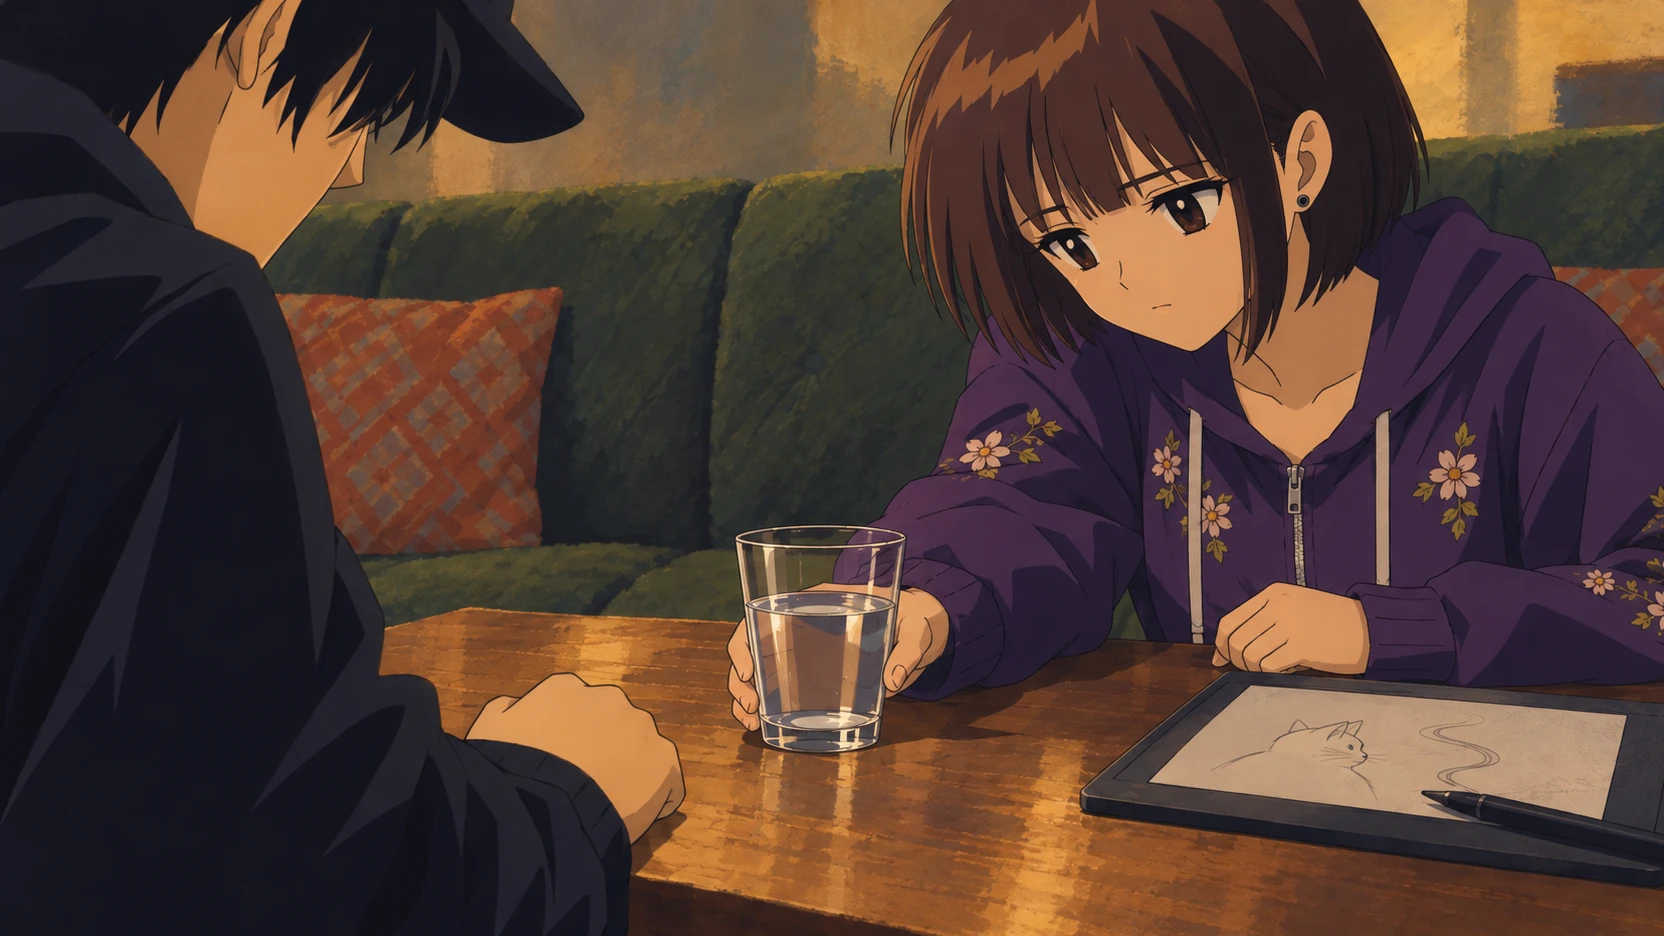
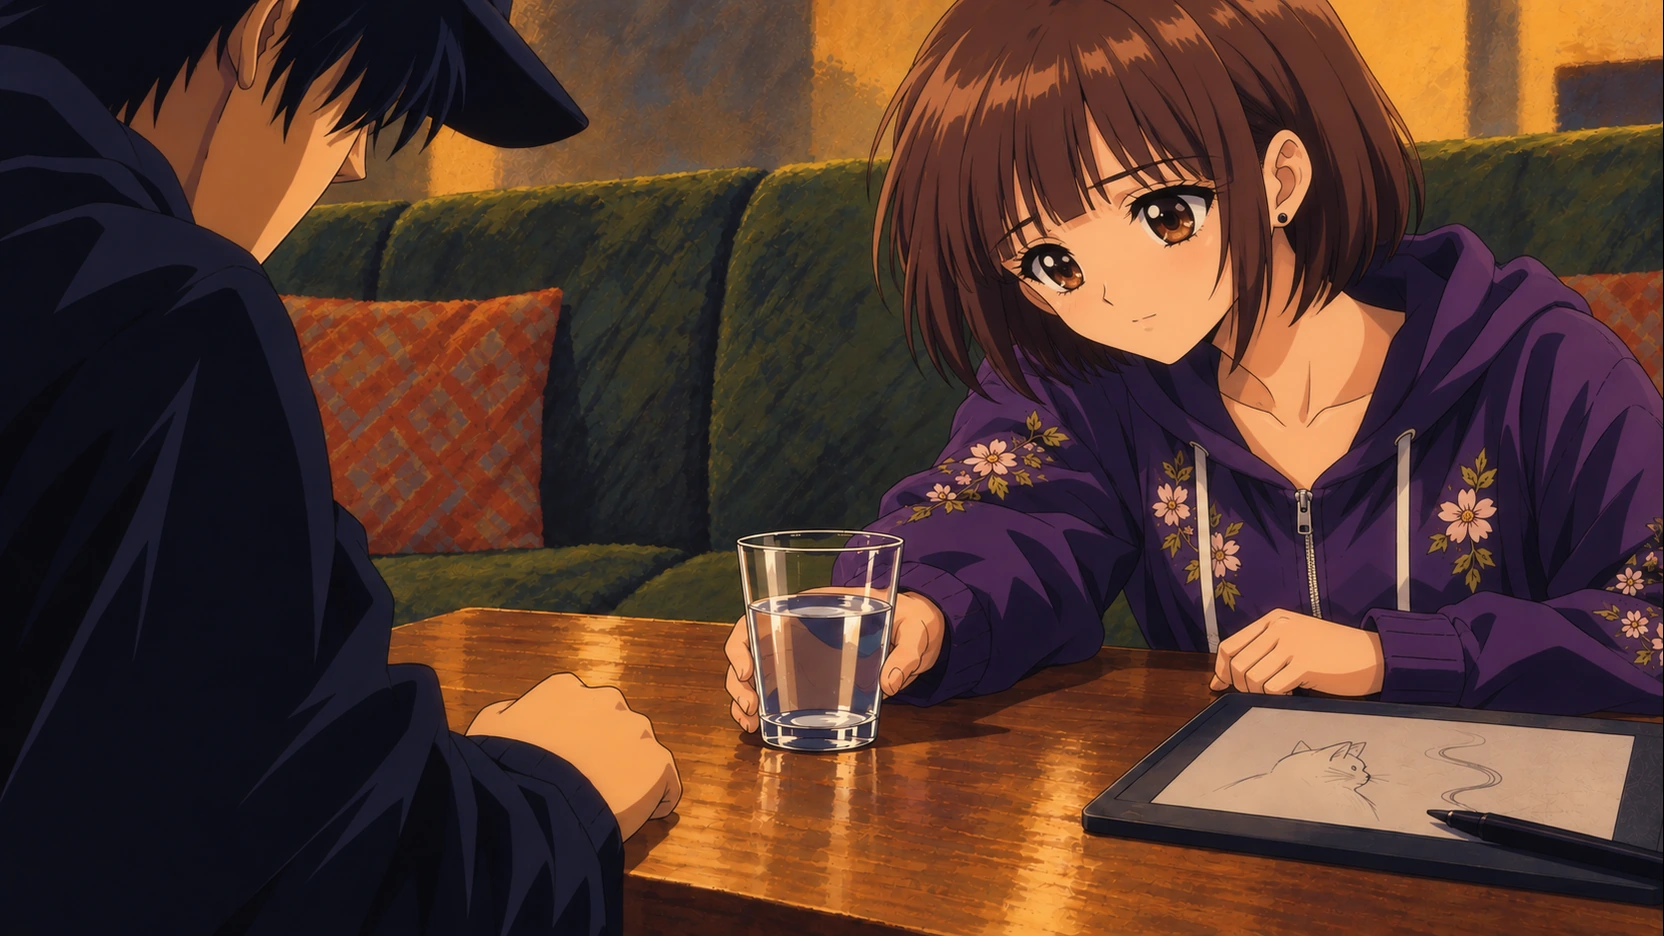
feat: adopt OVA art and anonymous silhouette in chapter preview (#519)

diff --git a/docs/chapter_previews.md b/docs/chapter_previews.md
@@ -1,6 +1,6 @@
 # 第1章の章末と次回予告
 
-Issue #384。第1章で勝利とライバルの「もう一口」を受け取ったあと、はじめが採点表を気にし始める短い余韻から、第二章「才能の壁（ジェラシー・ヘイズ）」の断片へつなぐ。
+Issue #384・#519。第1章で勝利とライバルの「もう一口」を受け取ったあと、はじめが採点表を気にし始める短い余韻から、第二章「才能の壁（ジェラシー・ヘイズ）」の断片へつなぐ。
 
 ## 演出と正本
 
@@ -8,7 +8,9 @@ Issue #384。第1章で勝利とライバルの「もう一口」を受け取っ
 
 採用Cは16:9の横長画面に元絵全体を収め、絵の下へ細い字幕を置く。章タイトルは既存サンプルと同じDotGothic16を使い、静かな倍音とベル、控えめなフェードで余韻を残す。章タイトルのあとにみんとの「何があっても、わたしはここにいるから。」をもう一度置き、最後の問いへつなぐ。音声ナレーションは付けず、サンプルの読みの間を確保する。既存6場面の断片までを扱い、大会の順位・採点の説明、未知の送信者の正体、アゲハが去る理由は追加しない。
 
-実装素材は `assets/cgs/ch2_preview/` に6枚、1664×936のWebPで合計約0.84MiB。`asset_sources/trailer-90s-anime-concept/images/` のPNGを形式変換したもので、元絵の再描画・リサイズ・クロップはしない。採用元と実装素材のハッシュ・変換条件は `asset_sources/ch2-preview/adoption.json`。生成指示と目視QAは既存サンプル側にある。DotGothic16は約2MiBで、サンプルと同じSIL OFLフォント。素材と書体は章末/再視聴時に読み、タイトル起動時には追加通信しない。
+Issue #519で、つむぎの水の場面をヨーコ／初期OVAのような可愛さを意識した一枚へ、アゲハの場面を夜の入口の後ろ姿と長い影へ更新した。入口の場面は元のタイトル絵と異なる低い斜めの構図で、顔を隠し、話者名も表示しない。髪飾りの小さな色を、2章の人物登場時に「あ、この子か」と気付く手がかりにする。章頭の巨大な人物画は予告に使わず、台詞とCの間を保つ。
+
+実装素材は `assets/cgs/ch2_preview/` に6枚、1664×936のWebPで合計1,018,040バイト（約0.97MiB）。既存4枚は `asset_sources/trailer-90s-anime-concept/images/` のPNGを原寸で形式変換。#519の2枚は `asset_sources/retro-ova-study-519/images/` のPNGから構図全体を縮小して1664×936へ収め、右に1pxの黒余白を置いた。クロップ・色補正は行わず、PNG原画も保持する。採用元と実装素材のハッシュ・変換条件は `asset_sources/ch2-preview/adoption.json`。生成指示と目視QAは各素材元にある。DotGothic16は約2MiBで、サンプルと同じSIL OFLフォント。素材と書体は章末/再視聴時に読み、タイトル起動時には追加通信しない。
 
 曲は `remake/js/chapters/preview-score.js` のオリジナルWebAudioスコア。既存のBGM音量/消音を尊重し、予告内の音ボタンは一時的な消音のみ。SEの音量を0にしても曲中の打楽器は音楽として残る。外部曲・音声は追加しない。
 
@@ -25,7 +27,7 @@ Issue #384。第1章で勝利とライバルの「もう一口」を受け取っ
 
 `python3 remake/tools/serve_preview.py --port 8123` を起動し、`http://127.0.0.1:8123/remake/chapter-preview.html` の再生ボタンを押す。本編の保存は変更しない。本編の到達から確認する場合は新規第1章の大会優勝、またはクリア済みセーブから再開する。
 
-`node remake/test/browser/ch1_preview.mjs` の9ケースで、採用Cの自然完走の全12カット、タイトル後のみんとの言葉、既存サンプルの6枚/16:9構図の保持/字幕の書体、初回と再視聴、旧セーブ、16:9復帰、PC/タッチ横画面、動き軽減、字幕と操作の収まり、非表示の停止、読み込み失敗と遅延、中断の後片付け、単体ページの保存不変を検証する。CIは `.github/workflows/ch1-preview.yml`。
+`node remake/test/browser/ch1_preview.mjs` の9ケースで、採用Cの自然完走の全12カット、タイトル後のみんとの言葉、採用6枚/16:9構図の保持/字幕の書体、初回と再視聴、旧セーブ、16:9復帰、PC/タッチ横画面、動き軽減、字幕と操作の収まり、非表示の停止、読み込み失敗と遅延、中断の後片付け、単体ページの保存不変を検証する。CIは `.github/workflows/ch1-preview.yml`。
 
 実ブラウザの音付き録画とQAは `docs/qa/ch1-preview/`。正式採用Cの録画は `docs/qa/ch1-preview/samples/c-quiet.mp4`。比較ページで本編と同じ台本・画像・演出・音楽を再生したもの。直下の従来の録画はA採用前の検証履歴として残す。ゲーム本編の通し検証は `node remake/test/playthrough.mjs`。
 
@@ -39,7 +41,7 @@ Issue #384。第1章で勝利とライバルの「もう一口」を受け取っ
 | B 短く畳みかける予告 | 29.2秒 | 字幕を大きく2行へ整え、速い曲で畳みかける。ひとりの控え室から音を引き、問いを残す。 |
 | C 言葉を残す静かな予告（正式採用） | 47.5秒 | 横長の画面・細い字幕・静かな倍音とベル。タイトルのあとに既存のみんとの言葉を再び置いてから、最後の問いへ。 |
 
-比較案は `remake/js/chapters/chapter-preview-samples.js` が既存台本を複製して組み立てる。Bの改行以外の台詞は元と同じ。Cの再登場は同じ絵と台詞の編集上の反復で、新しい出来事を追加しない。元絵6枚を保持し、比較再生はセーブ・既読・音量設定を変更しない。採用CのCSSは本編と比較ページで共有し、Bと比較ページ自体のCSSだけを比較ページで読む。
+比較案は `remake/js/chapters/chapter-preview-samples.js` が既存台本を複製して組み立てる。Bの改行以外の台詞は元と同じ。Cの再登場は同じ絵と台詞の編集上の反復で、新しい出来事を追加しない。全案で#519の更新を含む同じ採用6枚を使い、比較再生はセーブ・既読・音量設定を変更しない。採用CのCSSは本編と比較ページで共有し、Bと比較ページ自体のCSSだけを比較ページで読む。
 
 PC/スマホ横画面の表示、一時停止、再開、スキップ、保存不変は `node remake/test/browser/chapter_preview_samples.mjs`。録画で全カットの自然完走、元絵のデコード、字幕と操作の収まり、保存不変、ブラウザエラーを確認する。成果物は `docs/qa/ch1-preview/samples/`。
 

diff --git a/remake/README.md b/remake/README.md
@@ -301,7 +301,7 @@ PR226の14種の専用イラスト背景と極太ゴシック・斜め帯を `vn
 
 ## テスト
 
-第1章の章末と次回予告（#384）は、既存の90年代セル画サンプル（#415・みんと/つむぎを含む6場面）と同じ絵・台詞と章タイトルのドット風書体を使います。正式採用Cは横長の画面・細い字幕・静かな倍音とベルで47.5秒再生し、タイトル後にみんとの言葉をもう一度残します。初回のみ自動再生し、完走またはスキップ後にオートセーブへ既読を記録します。中断は既読にせず、クリア画面から何度でも再視聴できます。第2章本編は準備中です。
+第1章の章末と次回予告（#384）は、既存の90年代セル画サンプル（#415・みんと/つむぎを含む6場面）の台詞と章タイトルのドット風書体を使います。#519で紬を可愛いOVA風の水の場面へ、アゲハを顔と名前を隠した入口の影へ更新し、章頭と異なる構図で正体の発見を残しました。正式採用Cは横長の画面・細い字幕・静かな倍音とベルで47.5秒再生し、タイトル後にみんとの言葉をもう一度残します。初回のみ自動再生し、完走またはスキップ後にオートセーブへ既読を記録します。中断は既読にせず、クリア画面から何度でも再視聴できます。第2章本編は準備中です。
 保存データを変更せず演出だけを見るページは `/remake/chapter-preview.html`。仕様と録画は [章末と次回予告](../docs/chapter_previews.md)。回帰は `node remake/test/browser/ch1_preview.mjs`。
 3案の録画・スクショ比較用ページは `/remake/chapter-preview-samples.html`。Aは王道TV、Bは約30秒の速い予告、正式採用Cはみんとの言葉を最後へ残す静かな予告です。比較案の操作・スマホ表示・保存不変は `node remake/test/browser/chapter_preview_samples.mjs`。
 
